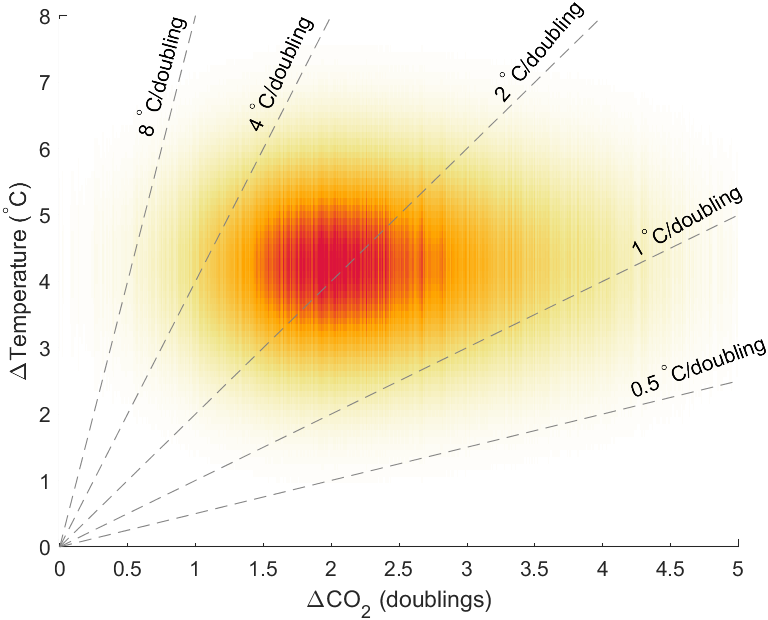
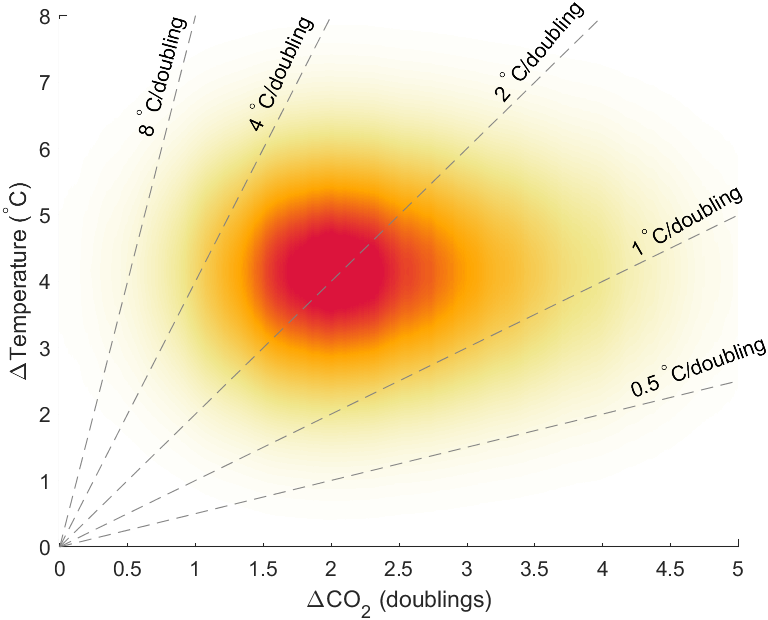
Added a smoothing filter to climate sensitivity (just aesthetic).

Changed region(s): [[0.2188, 0.1532, 0.7812, 0.7355]]

diff --git a/Trudgill_et_al_202X/Code/Plots/Climate_Sensitivity.m b/Trudgill_et_al_202X/Code/Plots/Climate_Sensitivity.m
@@ -72,6 +72,10 @@ co2_change_axis_matrix = repmat(co2_change_distribution.bin_midpoints,1,numel(te
 co2_change_probability_matrix = repmat(co2_change_distribution.probabilities,1,numel(temperature_change_distribution.probabilities));
 
 climate_sensitivity_joint = temperature_change_probability_matrix.*co2_change_probability_matrix;
+filter = ones(20,20);
+normalised_filter = filter./sum(filter);
+climate_sensitivity_joint_smooth = conv2(climate_sensitivity_joint,normalised_filter,'same');
+climate_sensitivity_joint_smooth_normalised = climate_sensitivity_joint_smooth./sum(climate_sensitivity_joint_smooth(:));
 
 %%
 colourmap = Geochemistry_Helpers.Colour.Map("b",[Geochemistry_Helpers.Colour.Colour("Crimson","rgb",2),...
@@ -86,9 +90,10 @@ figure(1);
 clf
 hold on
 
-pcolor_handle = pcolor(co2_change_axis_matrix,temperature_change_axis_matrix,climate_sensitivity_joint);
+pcolor_handle = pcolor(co2_change_axis_matrix,temperature_change_axis_matrix,climate_sensitivity_joint_smooth_normalised);
 colormap(expanded_colourmap.colours.rgb);
 set(pcolor_handle,'EdgeColor','None');
+shading interp;
 
 xlabel("\DeltaCO_2 (doublings)");
 ylabel("\DeltaTemperature (^{\circ}C)");
